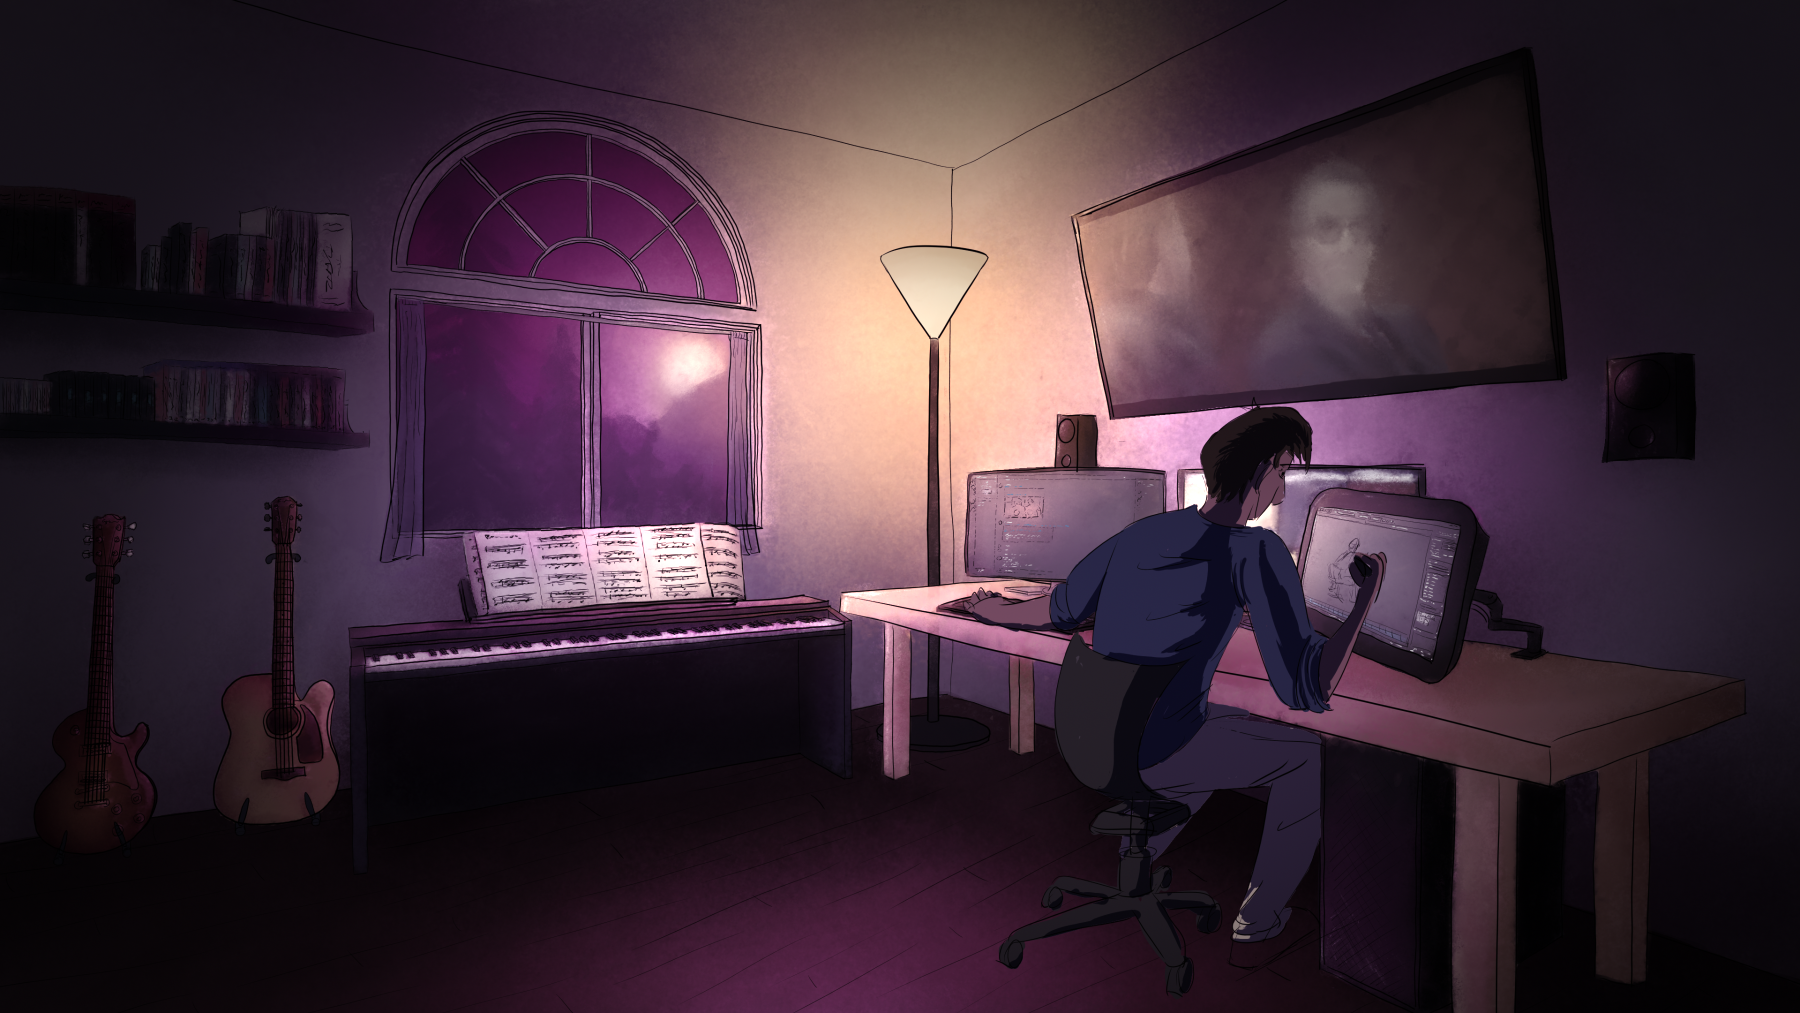
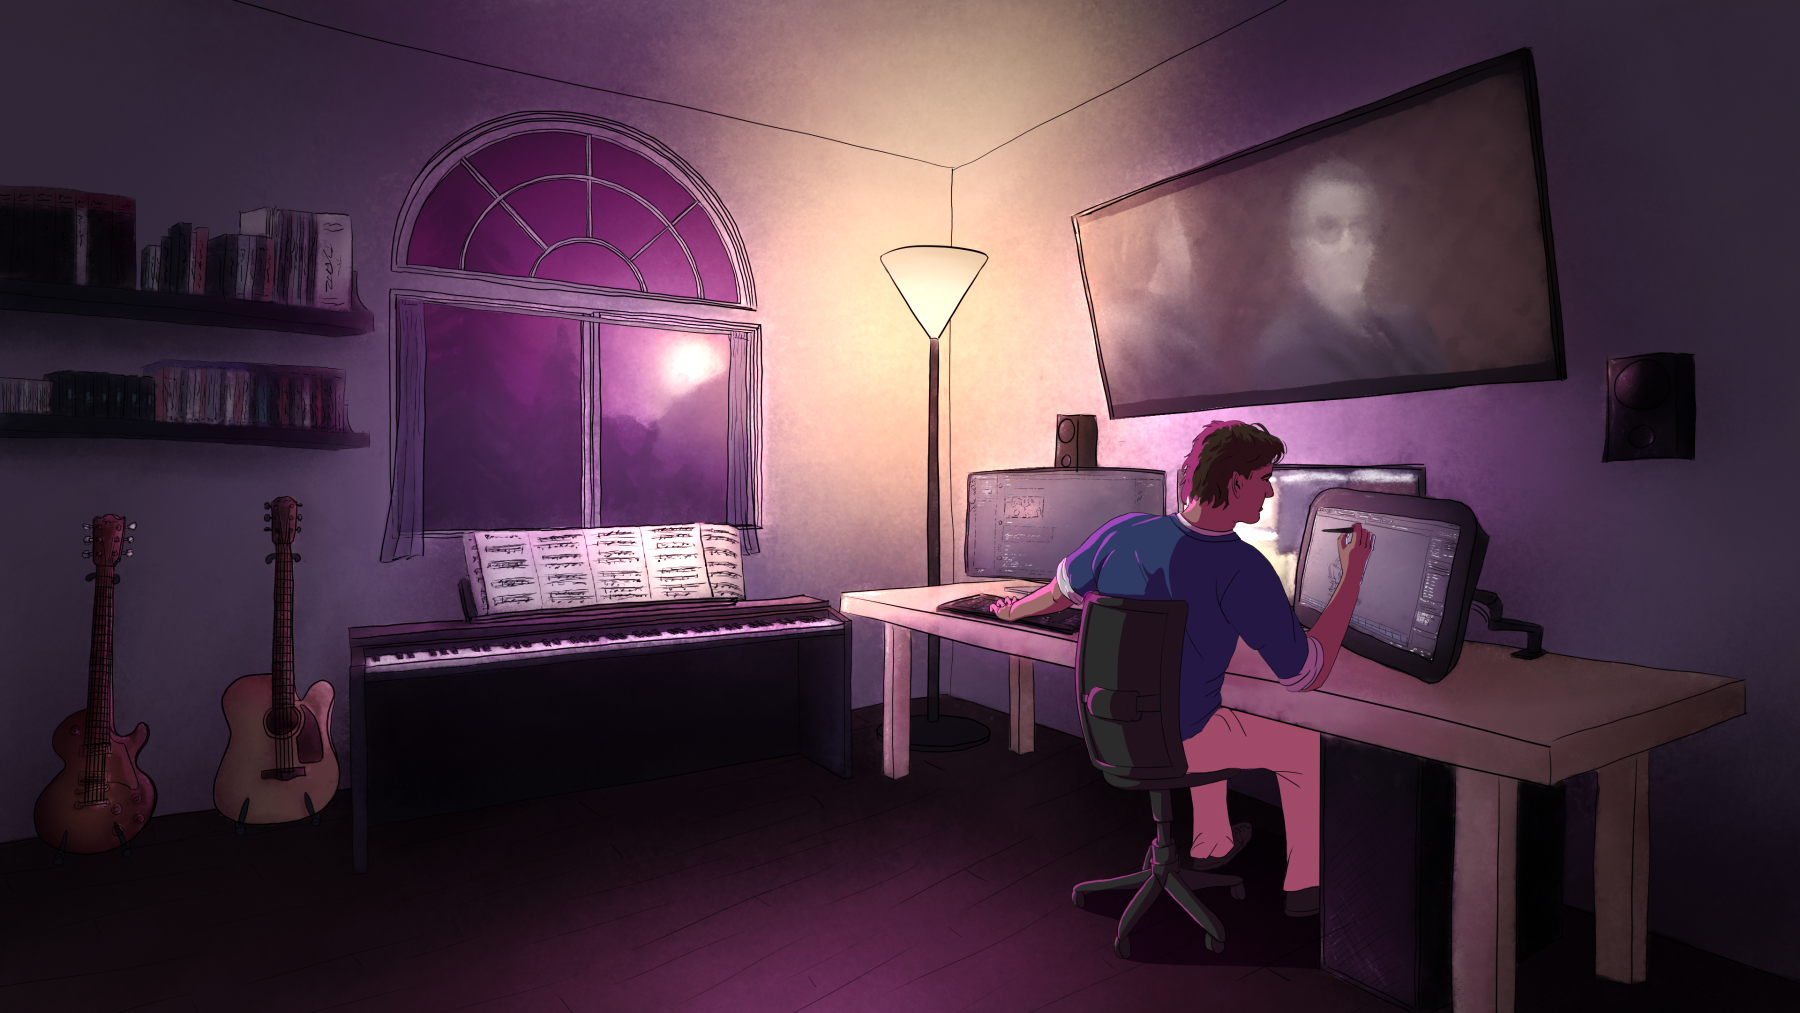
Updated Backgrounds
Updated Main background artwork.

Added About Me background artwork.

diff --git a/index.html b/index.html
@@ -167,15 +167,8 @@
                                                 <!-- Section Slide -->
                                                 <div class="swiper-slide" data-title="aboutme" data-subtitle="">                                        
                                                     <div class="img-mask">
-                                                        <div class="section-image" data-src="images/04hero.jpg">
-                                                            <div class="hero-video-wrapper">
-                                                                <video loop muted class="bgvid">
-                                                                    <source src="http://mathematic.tv/wp-content/uploads/2017/02/GESA_HATE_OR_GLORY_loop-preview.mp4" type="video/mp4">
-                                                                    <source src="http://mathematic.tv/wp-content/uploads/2017/02/GESA_HATE_OR_GLORY_loop-preview.webm" type="video/webm">
-                                                                </video>
-                                                            </div>
-                                                        </div>                                            
-                                                    </div>
+                                                        <div class="section-image" data-src="images/About_BG.png"></div>      
+													</div>
                                                     <a class="title hide-ball" data-type="page-transition" href="project04.html">aboutme</a>
                                                 </div>
                                                 <!--/Section Slide -->
